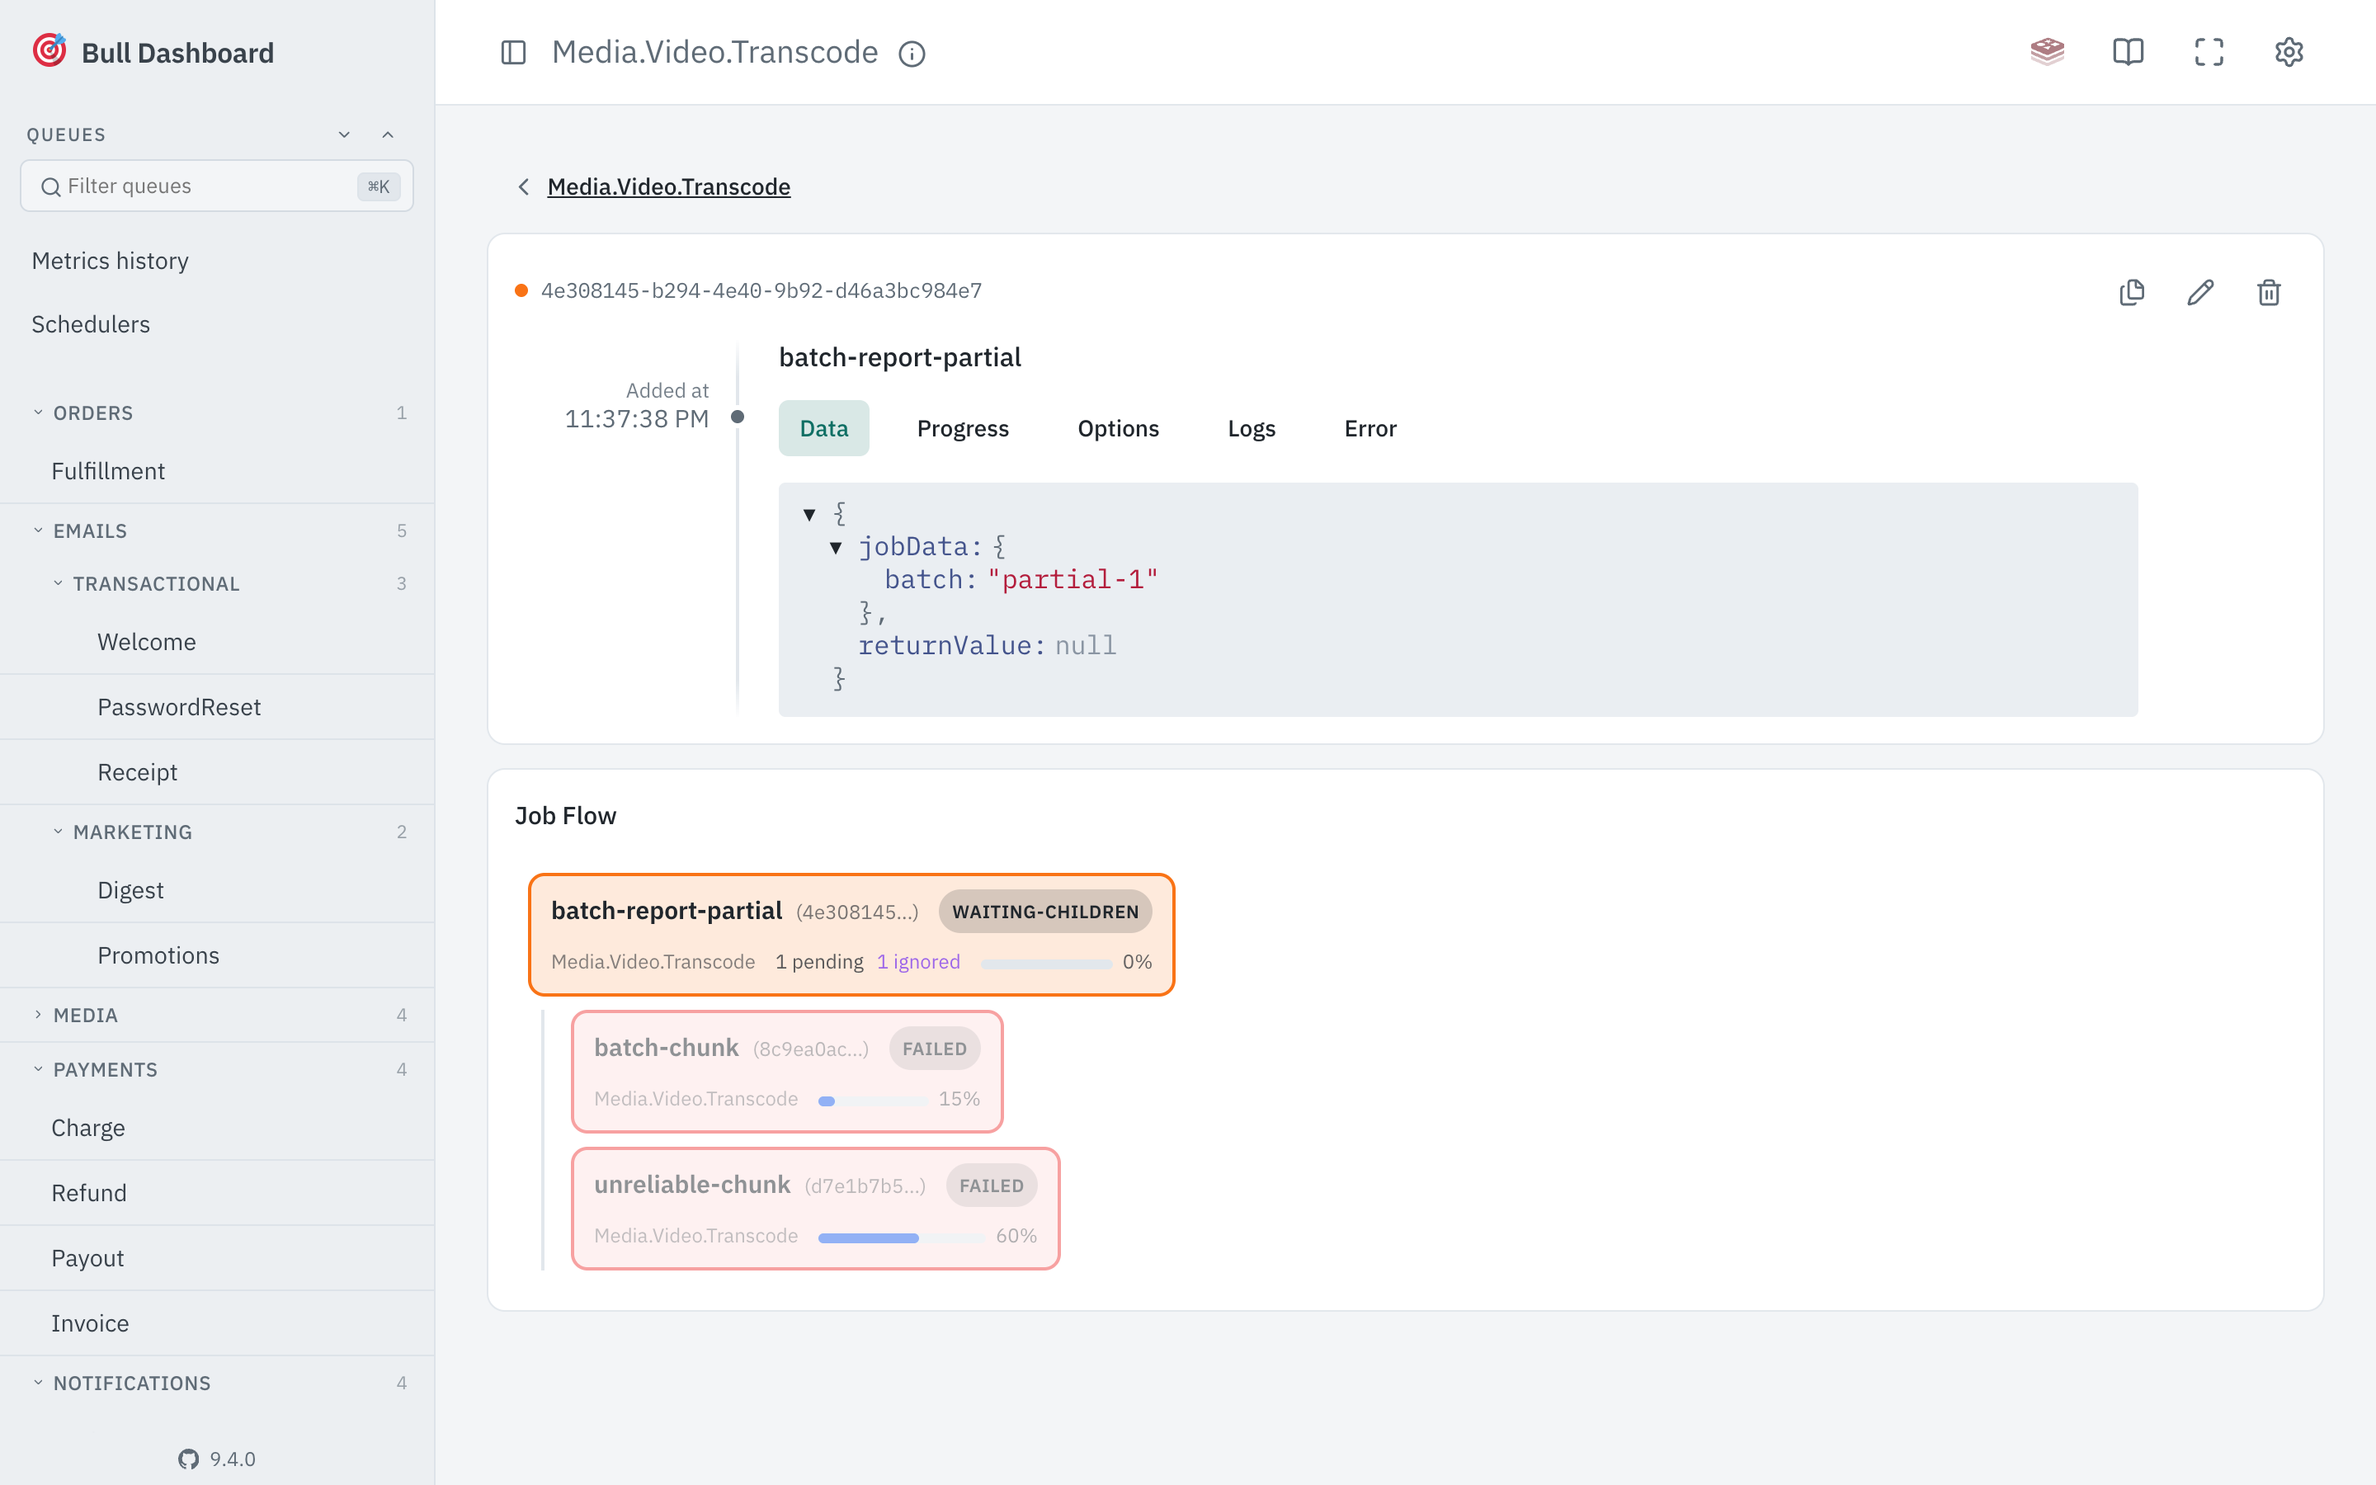
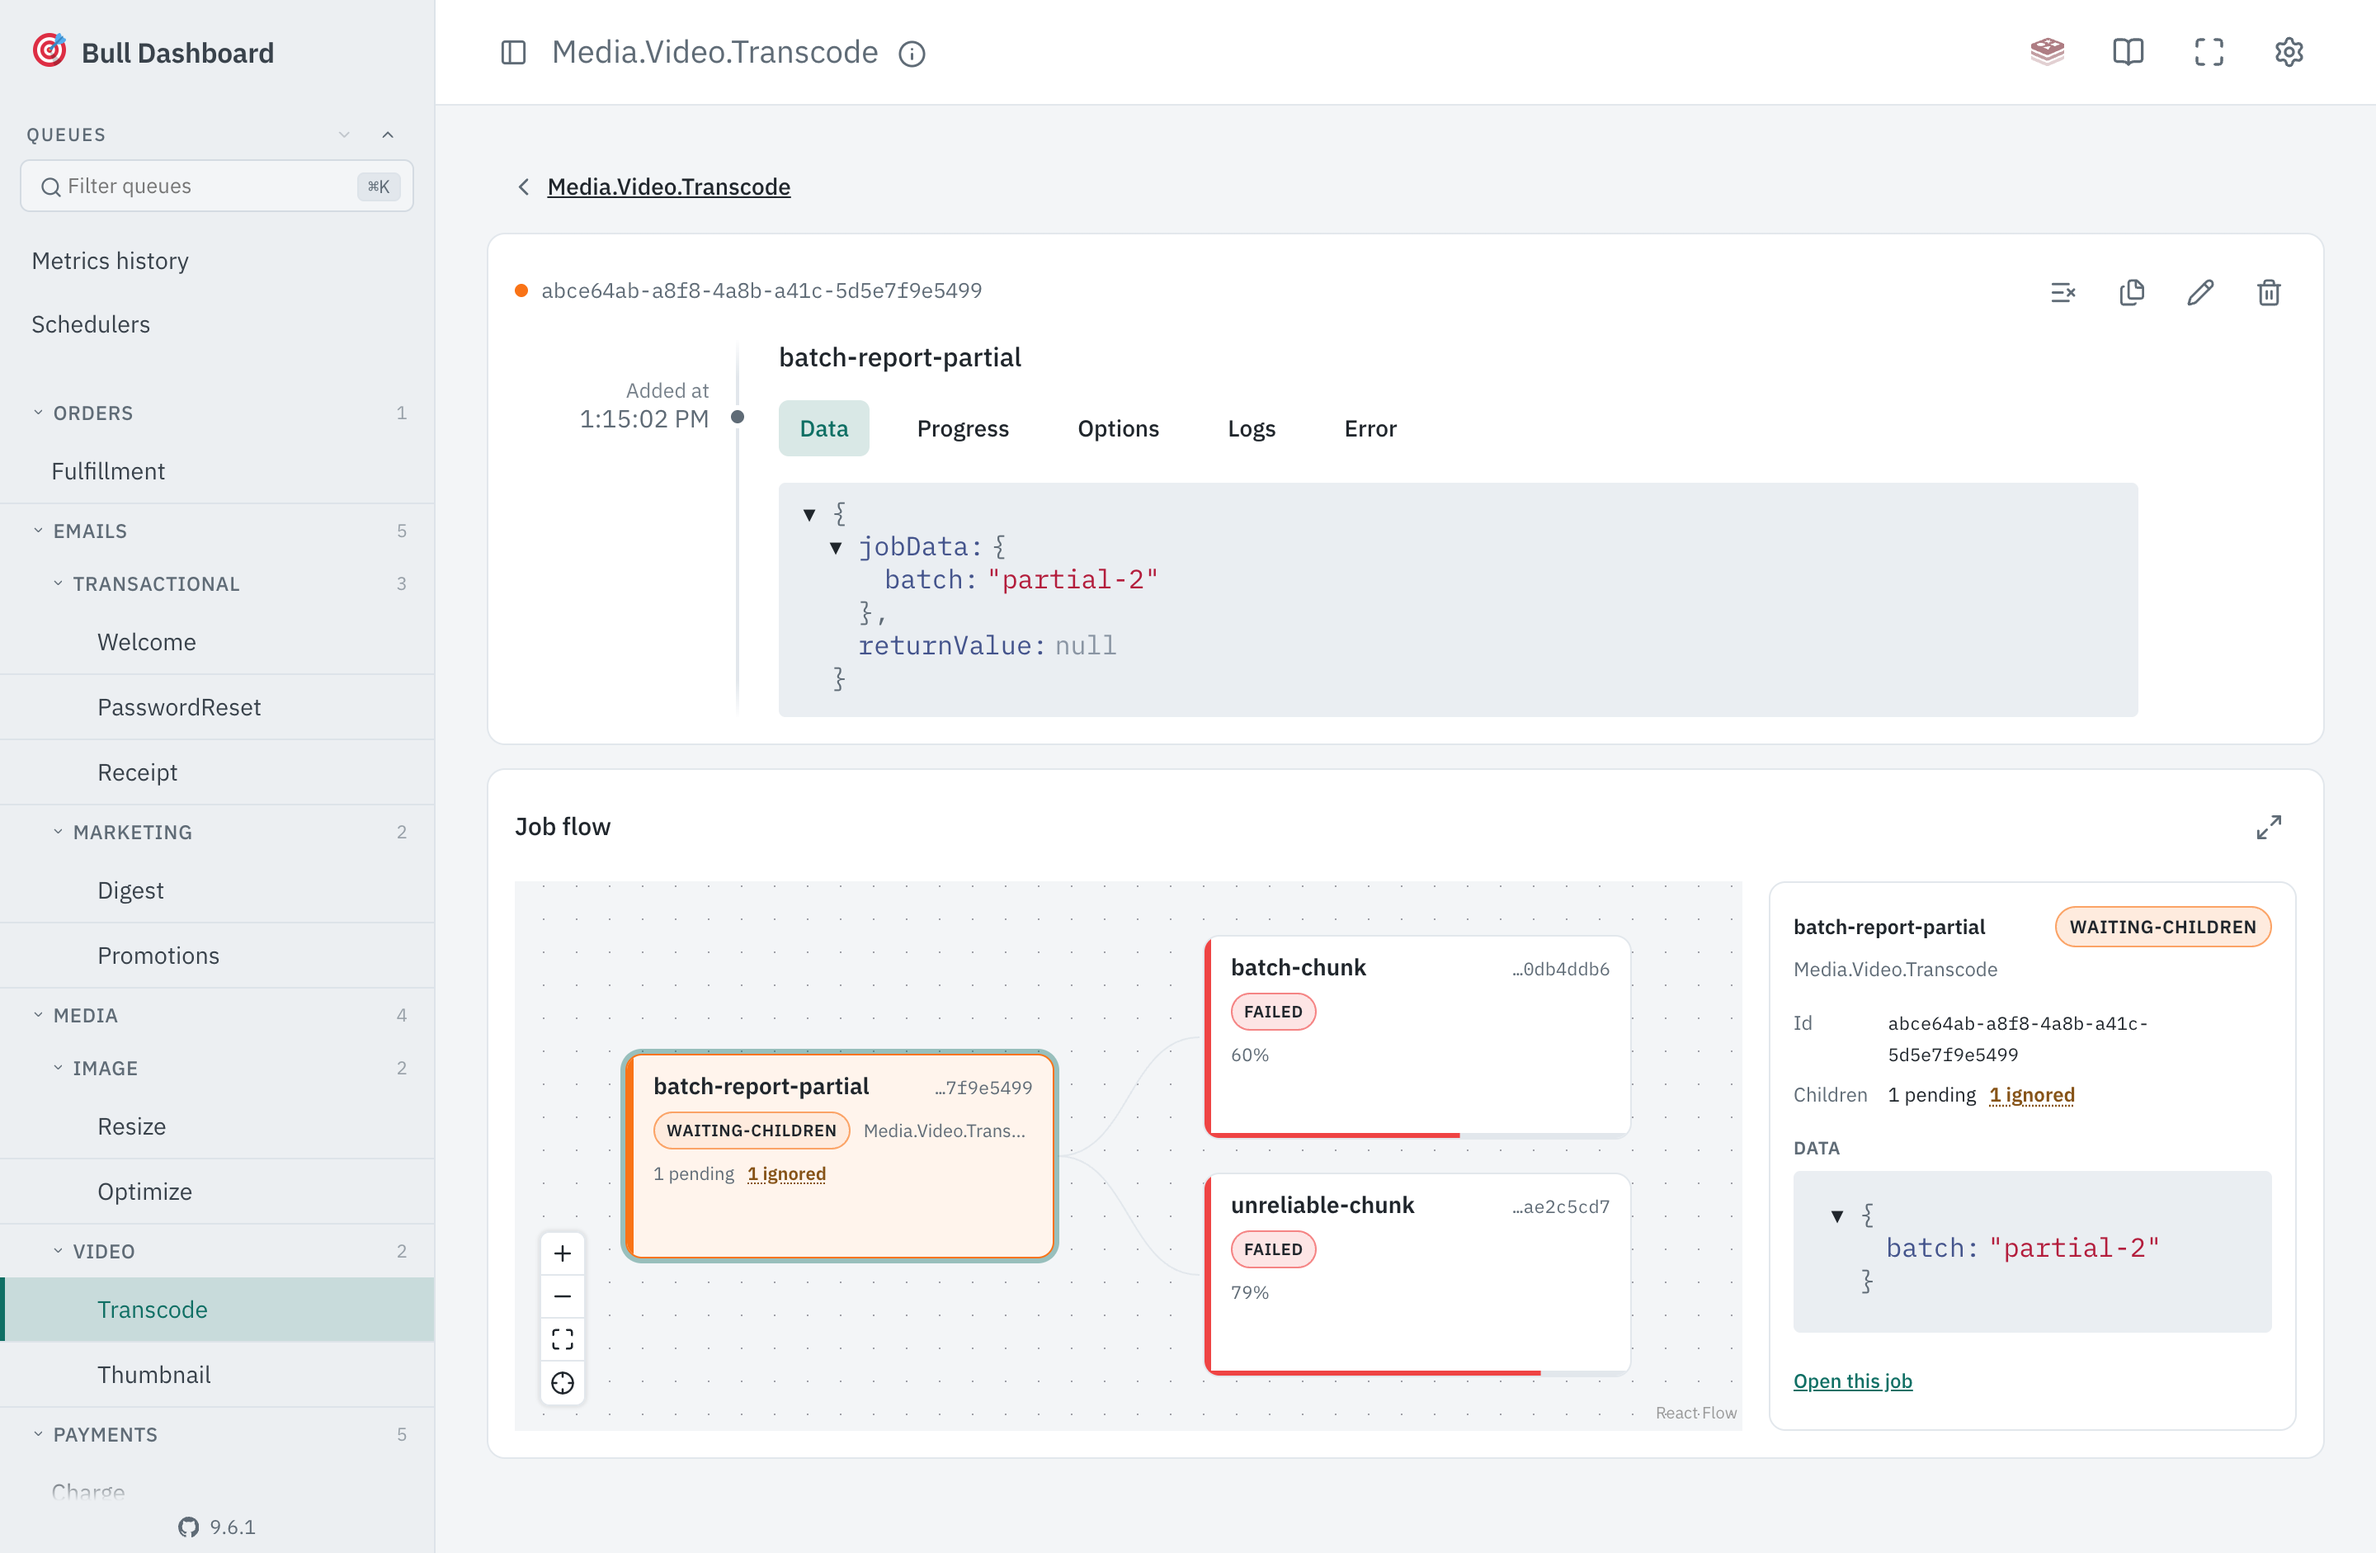
docs: describe the job flow graph and reshoot its screenshots

diff --git a/website/demo/src/mocks/handlers.ts b/website/demo/src/mocks/handlers.ts
@@ -1,31 +1,44 @@
 import { createBullBoard } from '@bull-board/api';
 import type { BullBoardRequest, ControllerHandlerReturnType } from '@bull-board/api/typings/app';
 import { seedFixtures } from './fixtures';
-import { findJob, state } from './state';
-import type { DemoJob } from './state';
 import { MockAdapter } from './MockAdapter';
 import { MockMetricsHistoryProvider } from './MockMetricsHistoryProvider';
 import { MSWServerAdapter } from './MSWServerAdapter';
+import { findJob, state } from './state';
+import type { DemoJob } from './state';
 
 seedFixtures(state);
 
 // ---- local mock for the flow endpoint (avoids pulling in bullmq) ----
 
+function countDependencies(children: DemoJob[]) {
+  const dependencies = {
+    processed: children.filter((c) => c.state === 'completed').length,
+    unprocessed: children.filter((c) => c.state !== 'completed' && c.state !== 'failed').length,
+    ignored: 0,
+    failed: children.filter((c) => c.state === 'failed').length,
+  };
+
+  return Object.values(dependencies).some(Boolean) ? { dependencies } : {};
+}
+
 function buildFlowNode(job: DemoJob): any {
-  const children: any[] = [];
+  const childJobs: DemoJob[] = [];
   if (job.childRefs) {
     for (const ref of job.childRefs) {
       const childJob = findJob(ref.queueName, ref.jobId);
-      if (childJob) children.push(buildFlowNode(childJob));
+      if (childJob) childJobs.push(childJob);
     }
   }
+
   return {
     id: job.id,
     name: job.name,
     progress: job.progress,
     state: job.state,
     queueName: job.queueName,
-    children,
+    children: childJobs.map(buildFlowNode),
+    ...countDependencies(childJobs),
   };
 }
 

diff --git a/website/docs/recipes/job-logs-and-flows.md b/website/docs/recipes/job-logs-and-flows.md
@@ -43,17 +43,29 @@ await flow.add({
 });
 ```
 
-Bull-board renders the tree on the parent job's detail view. Click through to jump between parents and children.
+Bull-board draws the whole flow as a graph on the job's detail view, whichever job in it you opened. It pans and zooms, and it opens fitted to the entire flow so you see the shape first. The control below the zoom buttons recentres on the job you came in on.
 
-![Parent job with Job Flow panel showing children across queues](/screenshots/flow-tree.png)
+![Job flow graph with the details panel beside it](/screenshots/flow-tree.png)
+
+Clicking a node fills the panel beside the canvas with that job's state and data rather than navigating away, so your position in the graph survives. Use `Open this job` in the panel when you do want its own page. The button in the card header expands the canvas to fullscreen, and `Escape` leaves it.
 
 Live example: <a href="/bull-board/demo/" target="_blank" rel="noopener">open the demo</a> and scroll to `reports:nightly` for a parent job with children.
 
+### Large flows
+
+A flow wide or deep enough to be expensive is not fetched whole. The response carries the top of the flow up to a fixed budget, and any node holding back children says so: a node reading `Load 20 more` has more children than it was given. Clicking it loads that node's children in place, without disturbing the viewport or anything you had already expanded.
+
+Fan out is the common shape here, one parent with a child per unit of work, so a single level is loaded whole rather than in pages: one click on a parent with 600 children gets all 600. Past a thousand children on one node the graph stops being the right tool, and the node says how many it is showing and leaves you to open the child queue.
+
+The endpoint takes `depth` and `maxChildren` if you want a different window, and both default to the values BullMQ itself uses.
+
 ### When a parent is waiting on children that are not coming
 
-A parent sits in `waiting-children` until its children finish, and the tree alone does not tell you whether that is going to happen. Each node with children carries the counts BullMQ keeps for it: how many are done, how many are still pending, how many failed, and how many were ignored.
+A parent sits in `waiting-children` until its children finish, and the graph alone does not tell you whether that is going to happen. Each node with children carries the counts BullMQ keeps for it: how many are done, how many are unfinished, and how many were ignored.
 
-![A flow parent showing one pending and one ignored child](/screenshots/flow-ignored-children.png)
+Unfinished is worth reading carefully. It is the parent's `dependencies` set, which holds every child the parent is still waiting on, and a child that has failed and may yet retry is still in there. So a stuck flow can show unfinished children that are not going to move on their own. Select the node to see the failure.
+
+![A flow parent with one unfinished and one ignored child, both of them failed](/screenshots/flow-ignored-children.png)
 
 Ignored is the one worth knowing about. A child added with `ignoreDependencyOnFailure` that fails does not fail its parent, it is set aside and the parent carries on as if it had succeeded:
 
@@ -69,4 +81,4 @@ await flow.add({
 
 That is the point of the option, and it also means a report can complete having quietly skipped half its inputs. Hovering the ignored count shows why each of those children failed, read from `Job#getIgnoredChildrenFailures()`.
 
-Failed and ignored take the failed and delayed colours; processed and pending stay muted, since a parent working through its children normally is not news. A leaf, having no children, shows nothing.
+Ignored is called out in colour; done and unfinished stay muted, since a parent working through its children normally is not news. A leaf, having no children, shows nothing.

diff --git a/README.md b/README.md
@@ -56,7 +56,7 @@ The [docs](https://felixmosh.github.io/bull-board/) have guides, recipes, the UI
 |   |   |
 |---|---|
 | [<img alt="Schedulers" src="https://raw.githubusercontent.com/felixmosh/bull-board/master/website/docs/public/screenshots/schedulers-page.png" width="420" />](https://felixmosh.github.io/bull-board/guide/exploring-the-dashboard)<br/>Every repeatable job across every queue, with its pattern or interval, when it next fires and when it last ran. Edit or remove one in place. | [<img alt="Historical metrics" src="https://raw.githubusercontent.com/felixmosh/bull-board/master/website/docs/public/screenshots/historical-metrics-page.png" width="420" />](https://felixmosh.github.io/bull-board/recipes/historical-metrics)<br/>Opt-in throughput and latency history over 90 days, per queue and board-wide. The storage panel tells you what keeping it costs. |
-| [<img alt="Job flows" src="https://raw.githubusercontent.com/felixmosh/bull-board/master/website/docs/public/screenshots/flow-tree.png" width="420" />](https://felixmosh.github.io/bull-board/recipes/job-logs-and-flows)<br/>Parent and child jobs as one tree, even when the children live in other queues, each with its own state and progress. Per-job logs alongside. | [<img alt="Whitelabel theming" src="https://raw.githubusercontent.com/felixmosh/bull-board/master/website/docs/public/screenshots/whitelabel-violet-dark.png" width="420" />](https://felixmosh.github.io/bull-board/recipes/whitelabel-theming)<br/>Design tokens named after the shadcn contract. Set `primary` and the focus ring, the sidebar and the selection states all follow it. |
+| [<img alt="Job flows" src="https://raw.githubusercontent.com/felixmosh/bull-board/master/website/docs/public/screenshots/flow-tree.png" width="420" />](https://felixmosh.github.io/bull-board/recipes/job-logs-and-flows)<br/>Parent and child jobs as one pannable graph, even when the children live in other queues, each with its own state and progress. Click a node to inspect it without leaving the page. Per-job logs alongside. | [<img alt="Whitelabel theming" src="https://raw.githubusercontent.com/felixmosh/bull-board/master/website/docs/public/screenshots/whitelabel-violet-dark.png" width="420" />](https://felixmosh.github.io/bull-board/recipes/whitelabel-theming)<br/>Design tokens named after the shadcn contract. Set `primary` and the focus ring, the sidebar and the selection states all follow it. |
 
 ## Install
 

diff --git a/website/docs/queue-adapters/bullmq.md b/website/docs/queue-adapters/bullmq.md
@@ -88,14 +88,16 @@ adapter.setVisibilityGuard((request) => {
 });
 ```
 
-## Flow tree
+## Flow graph
 
-The flow tree tab on the job detail page works with `BullMQAdapter` queues automatically. There's nothing to configure. When you open a job that belongs to a [BullMQ flow](https://docs.bullmq.io/guide/flows), bull-board reads the parent/child graph and renders it.
+The flow graph on the job detail page works with `BullMQAdapter` queues automatically. There's nothing to configure. When you open a job that belongs to a [BullMQ flow](https://docs.bullmq.io/guide/flows), bull-board reads the parent/child graph and renders it.
 
 It walks the job's parent chain across queues to find the flow root, then reads the tree through a `FlowProducer` that shares the root queue's connection (on BullMQ v6 it reuses the queue's backend, so queues on the [PostgreSQL backend](/recipes/postgres-backend) work too). So it works as long as every queue in the flow is registered on the board.
 
+The read is bounded. `FlowProducer#getFlow` is called with `depth` and `maxChildren`, both defaulting to what BullMQ itself uses, and the response is then capped at 200 descendants so the per-job state and dependency lookups cannot grow without limit on a large flow. Nodes left holding back children are marked, and the UI loads them on demand. See [job flows](/recipes/job-logs-and-flows) for what that looks like.
+
 ::: tip
-The flow tree only spans queues bull-board knows about. If a parent job lives in a queue you didn't pass to `createBullBoard`, the tree stops at the boundary. Register every queue that participates in the flow.
+The flow graph only spans queues bull-board knows about. If a parent job lives in a queue you didn't pass to `createBullBoard`, the graph stops at the boundary. Register every queue that participates in the flow.
 :::
 
-Bull (the legacy library) has no flows, so the tab is BullMQ-only.
+Bull (the legacy library) has no flows, so the panel is BullMQ-only.
